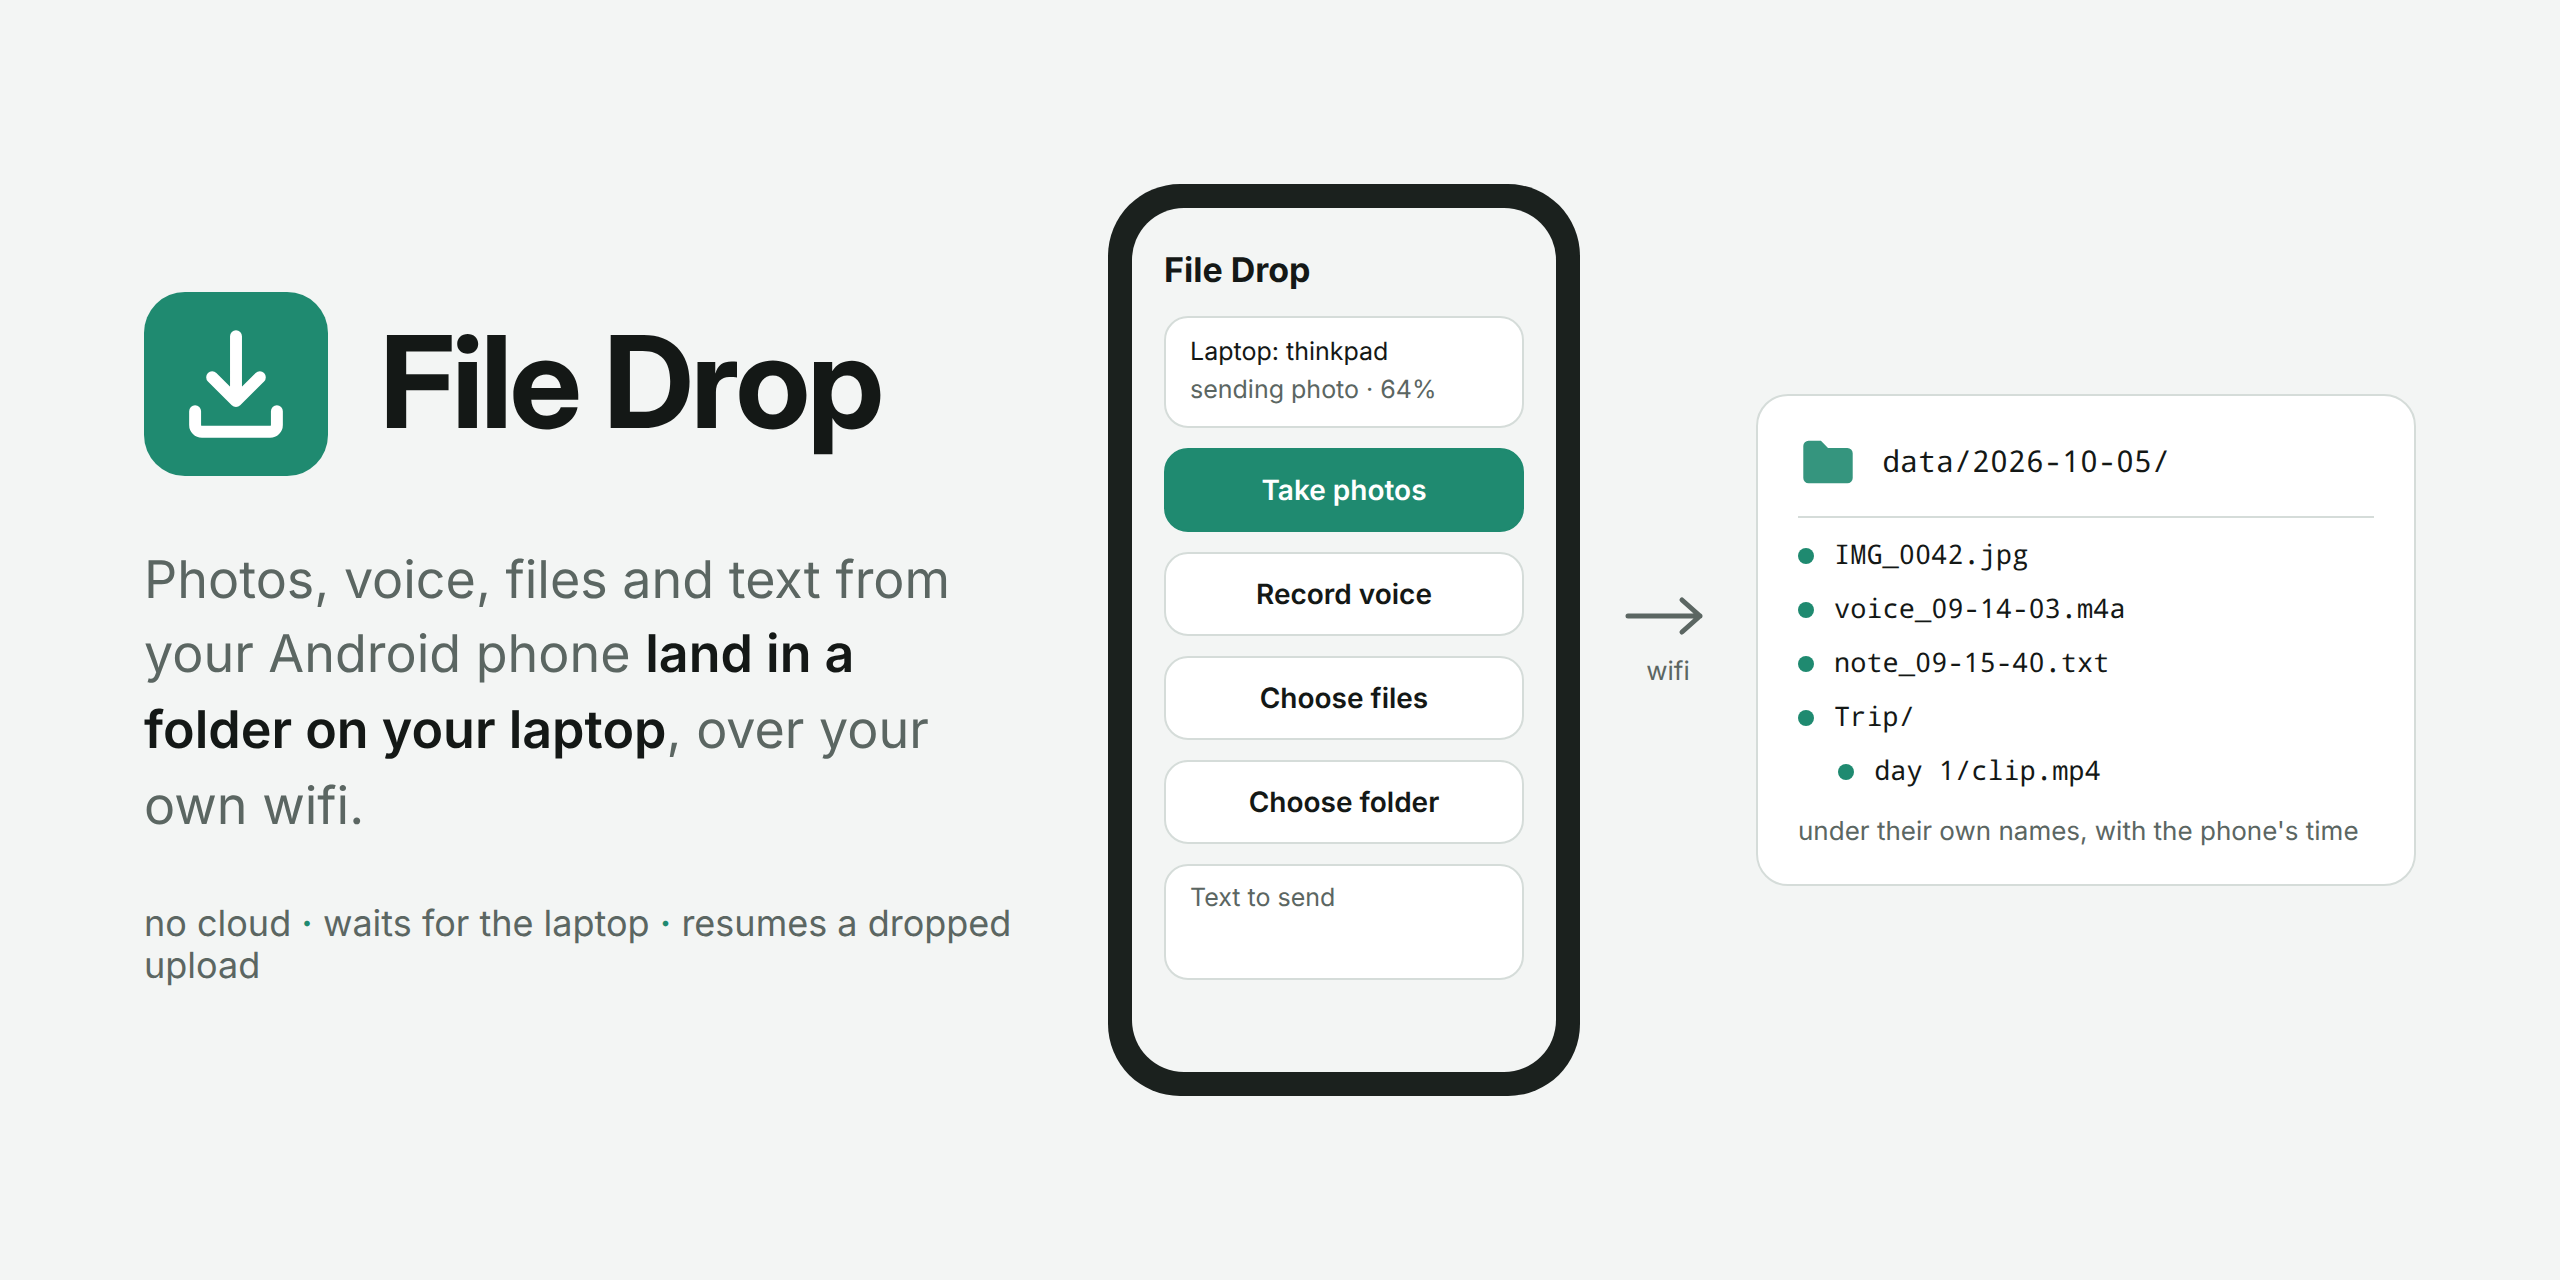
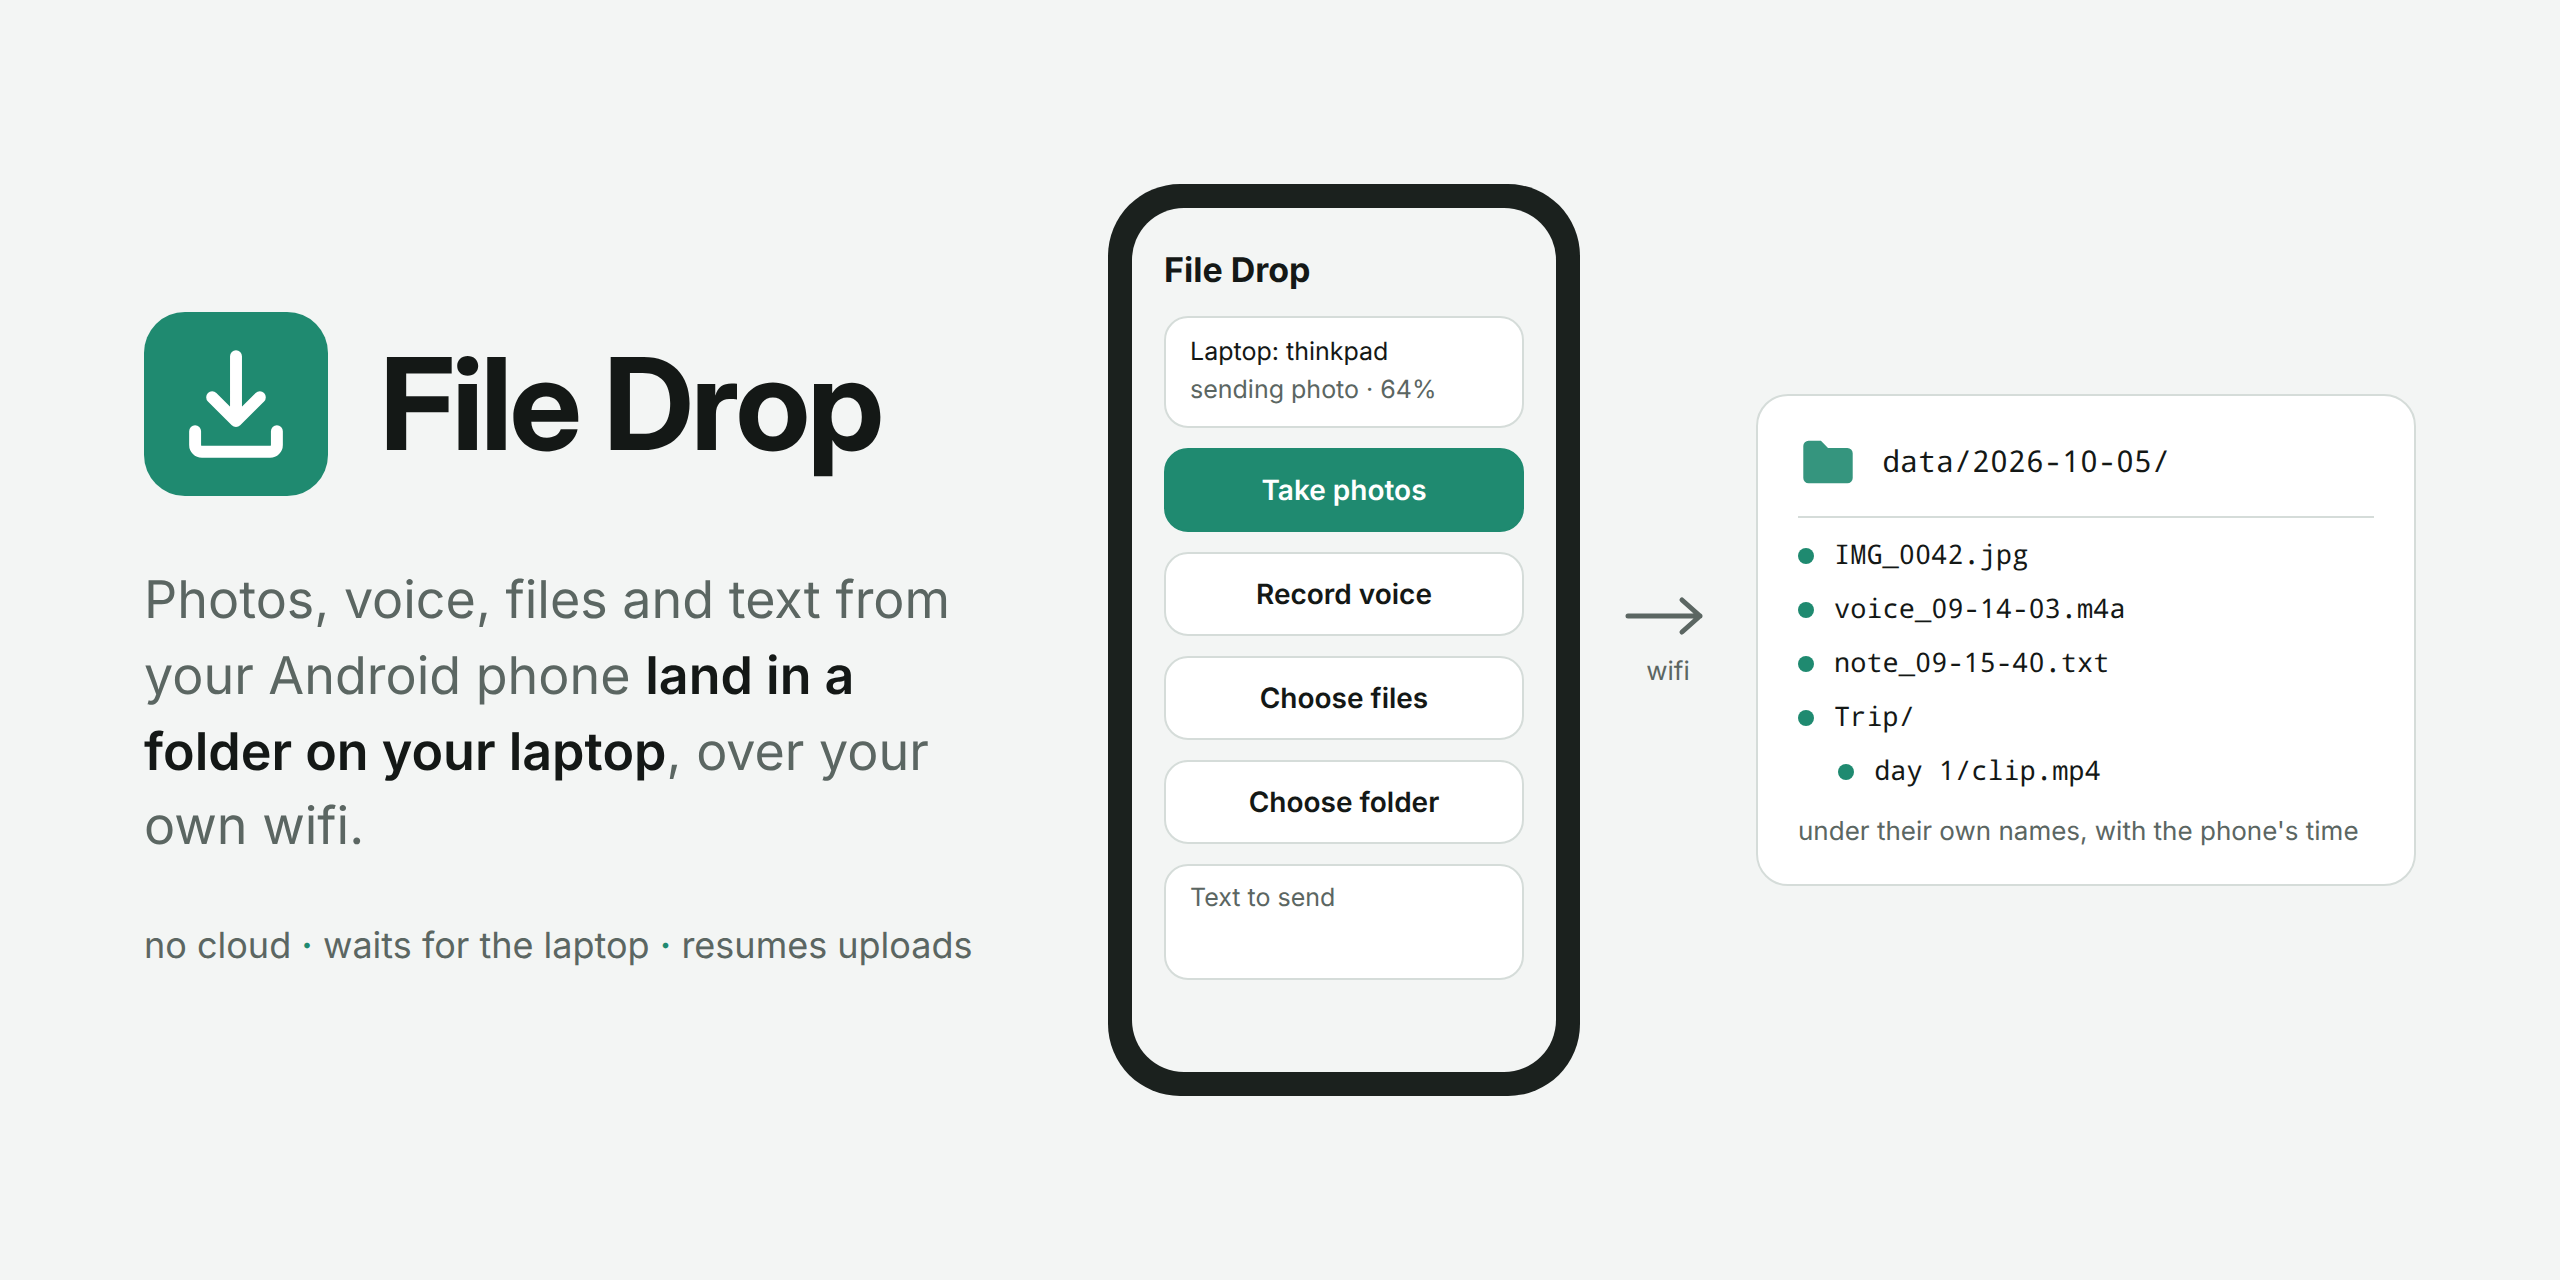
img: the cover shows the app's own screen and the folder it fills
The phone carries the real buttons, the laptop side the data folder by
day, in the app's own green. Both lines fit without a stray word.

diff --git a/img/cover.html b/img/cover.html
@@ -240,7 +240,7 @@ body {
     </div>
     <p class="tagline">Photos, voice, files and text from your Android phone
         <b>land in a folder on your laptop</b>, over your own wifi.</p>
-    <p class="features">no cloud <span>·</span> waits for the laptop <span>·</span> resumes a dropped upload</p>
+    <p class="features">no cloud <span>·</span> waits for the laptop <span>·</span> resumes uploads</p>
 </div>
 <div class="story">
     <div class="phone">
